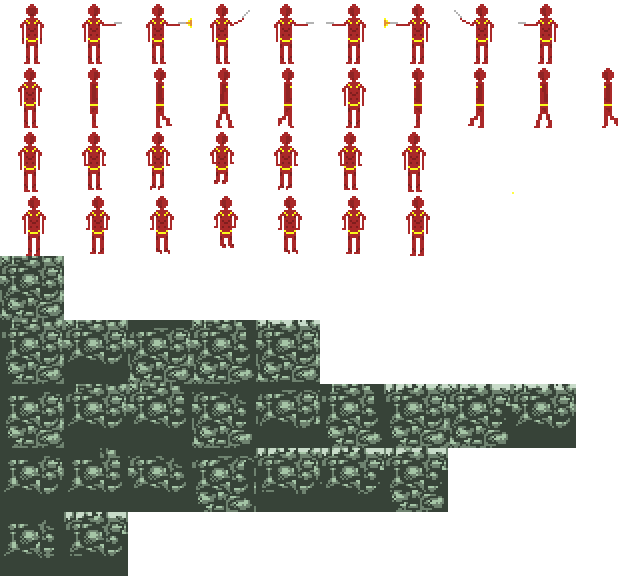
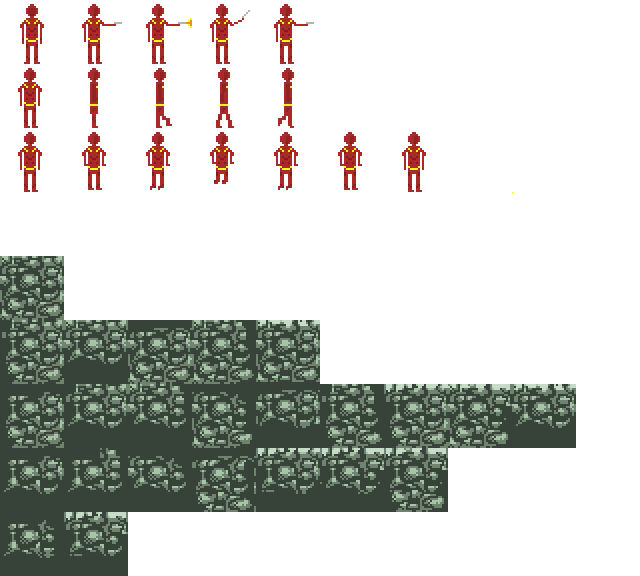
Reduced sprites on sheet with use of transforming. Collisions are now more proper and accurate.

diff --git a/Player.py b/Player.py
@@ -21,6 +21,8 @@ class Player(pygame.sprite.Sprite):
 		self.jumpClock = 0
 		self.direction = NONE
 
+		self.moved = False
+
 		self.image = self.imagesdict['j_rightface']
 		self.rect = self.image.get_rect()
 
@@ -45,46 +47,54 @@ class Player(pygame.sprite.Sprite):
 	def checkHorizontalAndShooting(self, environment):
 		moving = False
 		
-		if self.shooting and self.direction == LEFT:
-			if self.graphics['shoot_left'].isFinished():
-				self.shooting = False
-				self.bulletcreated = False
-				self.image = self.imagesdict['j_leftface']
-			else:
-				self.graphics['shoot_left'].play()
-				self.image = self.graphics['shoot_left'].getCurrentFrame()
-		        if self.graphics['shoot_left']._propGetCurrentFrameNum() == 1 and not self.bulletcreated:
-		            startx = self.rect[0]
-		            starty = self.rect[1] + 22
-		            bullet = Bullet(LEFT, self.imagesdict['bullet'])
-		            bullet.rect.topleft = startx, starty
-		            (self.groups())[0].add(bullet)
-		            self.bulletcreated = True
-		elif self.shooting and self.direction == RIGHT:
+		if self.shooting:
 			if self.graphics['shoot_right'].isFinished():
 				self.shooting = False
 				self.bulletcreated = False
 				self.image = self.imagesdict['j_rightface']
+				if self.direction == LEFT:
+					self.image = pygame.transform.flip(self.image, True, False)
+					oldpos, newpos = self.rect, self.rect.move(22,0)
+					moving = True
+					self.moved = False
 			else:
 				self.graphics['shoot_right'].play()
 				self.image = self.graphics['shoot_right'].getCurrentFrame()
+				if self.direction == LEFT:
+					self.image = pygame.transform.flip(self.image, True, False)
+					if not self.moved:
+						oldpos, newpos = self.rect, self.rect.move(-22,0)
+						moving = True
+						self.moved = True
+
+				# If first frame played already, need to create bullet
 		        if self.graphics['shoot_right']._propGetCurrentFrameNum() == 1 and not self.bulletcreated:
-		            startx = self.rect[0] + 64
-		            starty = self.rect[1] + 22
-		            bullet = Bullet(RIGHT, self.imagesdict['bullet'])
-		            bullet.rect.topleft = startx, starty
-		            (self.groups())[0].add(bullet)
-		            self.bulletcreated = True
-		elif self.direction == LEFT:
-			self.graphics['left_walk'].play()
-			self.image = self.graphics['left_walk'].getCurrentFrame()
-			oldpos, newpos = self.rect, self.rect.move((-kWalkSpeed,0))
-			moving = True
+		        	if self.direction == RIGHT:
+						startx = self.rect[0] + 64
+						starty = self.rect[1] + 19
+						bullet = Bullet(RIGHT, self.imagesdict['bullet'])
+						bullet.rect.topleft = startx, starty
+						(self.groups())[0].add(bullet)
+						self.bulletcreated = True
+			        else:
+						startx = self.rect[0]
+						starty = self.rect[1] + 19
+						bullet = Bullet(LEFT, self.imagesdict['bullet'])
+						bullet.rect.topleft = startx, starty
+						(self.groups())[0].add(bullet)
+						self.bulletcreated = True
+
 		elif self.direction == RIGHT:
 			self.graphics['right_walk'].play()
 			self.image = self.graphics['right_walk'].getCurrentFrame()
-			oldpos, newpos = self.rect, self.rect.move((kWalkSpeed,0))
+			oldpos, newpos = self.rect, self.rect.move(kWalkSpeed,0)
 			moving = True
+		elif self.direction == LEFT:
+			self.graphics['right_walk'].play()
+			self.image = pygame.transform.flip(self.graphics['right_walk'].getCurrentFrame(), True, False)
+			oldpos, newpos = self.rect, self.rect.move(-kWalkSpeed,0)
+			moving = True
+
 
 		# Check for horizontal collision
 		if moving:
@@ -110,12 +120,10 @@ class Player(pygame.sprite.Sprite):
 			# Change to jumping sprite if not shooting
 			if not self.shooting:
 				dirstr = ''
-				if self.facingRight:
-					dirstr = 'jump_right'
-				else:
-					dirstr = 'jump_left'
-				self.graphics[dirstr].play()
-				self.image = self.graphics[dirstr].getCurrentFrame()
+				self.graphics['jump_right'].play()
+				self.image = self.graphics['jump_right'].getCurrentFrame()
+				if not self.facingRight:
+					self.image = pygame.transform.flip(self.image, True, False)
 			# Set sprite to move
 			oldpos, newpos = self.rect, self.rect.move((0,-kJumpSpeed))
 			moving = True
@@ -127,20 +135,20 @@ class Player(pygame.sprite.Sprite):
 		elif self.falling:
 			# Change to facing sprite if not shooting
 			if not self.shooting:
-				if self.facingRight:
-					dirstr = 'j_rightface'
-				else:
-					dirstr = 'j_leftface'
-				img = self.imagesdict[dirstr]
+				img = self.imagesdict['j_rightface']
+				if not self.facingRight:
+					img = pygame.transform.flip(img, True, False)
+				
 			oldpos, newpos = self.rect, self.rect.move((0,kJumpSpeed))
 			moving = True
 
 			# Let sprite fall until bounds are met
-			if self.rect[1] + kJumpSpeed + 64 <= 400 and self.rect != newpos:
+			if self.rect[1] + kJumpSpeed + 60 <= 400 and self.rect != newpos:
 				self.rect = newpos
 			else:
 				self.falling = False
 				moving = False
+				self.graphics['jump_right'].stop()
 
 		# Check vertical collision
 		if moving:
@@ -186,11 +194,9 @@ class Player(pygame.sprite.Sprite):
 			self.bullet_sound.play()
 			self.shooting = True
 			# Set and start sprite animation
-			if self.facingRight:
-				self.graphics['shoot_right'].play()
-				self.image = self.graphics['shoot_right'].getCurrentFrame()
-				self.direction = RIGHT
-			else:
-				self.graphics['shoot_left'].play()
-				self.image = self.graphics['shoot_left'].getCurrentFrame()
+			self.graphics['shoot_right'].play()
+			self.image = self.graphics['shoot_right'].getCurrentFrame()
+			self.direction = RIGHT
+			if not self.facingRight:
+				self.image = pygame.transform.flip(self.image, True, False)
 				self.direction = LEFT

diff --git a/Game.py b/Game.py
@@ -17,13 +17,13 @@ DURATION = 0.1
 SCREEN_X=400
 SCREEN_Y=400
 
-# This is the length of the sprite
+# This is the length of the sprite box
 LEN_SPRT_X=64
 LEN_SPRT_Y=64
 
-# This is where the sprite is found on the sheet
-SPRT_RECT_X=0
-SPRT_RECT_Y=LEN_SPRT_Y
+# Dimension of the player sprite
+DIM_SPRT_X = 24
+DIM_SPRT_Y = 60
 
 
 def main():
@@ -136,28 +136,26 @@ def DetermineAssets():
 def LoadSpriteAssets(SHEET):
     # Global dictionary that contains all static images
     IMAGESDICT = {
-        'j_normal': SHEET.subsurface(pygame.Rect(0, 0, LEN_SPRT_X, LEN_SPRT_Y)),
-        'j_rightface': SHEET.subsurface(pygame.Rect(SPRT_RECT_X, SPRT_RECT_Y, LEN_SPRT_X, LEN_SPRT_Y)),
-        'j_leftface': SHEET.subsurface(pygame.Rect(SPRT_RECT_X+(LEN_SPRT_X*5), SPRT_RECT_Y, LEN_SPRT_X, LEN_SPRT_Y)),
-        'bullet': SHEET.subsurface(pygame.Rect(SPRT_RECT_X+(LEN_SPRT_X*8), SPRT_RECT_Y*3, 2, 2)),
-        'ground': SHEET.subsurface(pygame.Rect(LEN_SPRT_X*4, SPRT_RECT_Y*5, LEN_SPRT_X, LEN_SPRT_Y/2)),
+        'j_normal': SHEET.subsurface(pygame.Rect(22, 2, 24, 60)),
+        'j_rightface': SHEET.subsurface(pygame.Rect(18, LEN_SPRT_Y + 4, DIM_SPRT_X, DIM_SPRT_Y)),
+        'bullet': SHEET.subsurface(pygame.Rect(LEN_SPRT_X*8, LEN_SPRT_Y*3, 2, 2)),
+        'ground': SHEET.subsurface(pygame.Rect(LEN_SPRT_X*4, LEN_SPRT_Y*5, LEN_SPRT_X, LEN_SPRT_Y/2)),
     }
 
+    IMAGESDICT['j_leftface'] = pygame.transform.flip(IMAGESDICT['j_rightface'], True, False)
+
     # Define the different animation types
-    animTypes = 'right_walk left_walk shoot_right shoot_left jump_right jump_left right_face left_face normal'.split()
+    animTypes = 'right_walk shoot_right jump_right'.split()
 
     # These tuples contain (base_x, base_y, numOfFrames)
     # numOfFrames is in the x-direction
     animTypesInfo = {
-        'right_walk':   (SPRT_RECT_X+LEN_SPRT_X, SPRT_RECT_Y, 4),
-        'left_walk':    (SPRT_RECT_X+(LEN_SPRT_X*6), SPRT_RECT_Y, 4),
-        'shoot_right':  (LEN_SPRT_X, 0, 4),
-        'shoot_left':   (LEN_SPRT_X*5, 0, 4),
-        'jump_right':   (0, LEN_SPRT_Y*2, 7),
-        'jump_left':    (0, LEN_SPRT_Y*3, 7),
-        'normal':       (0, 0, 1),
-        'right_face':   (0, LEN_SPRT_Y, 1),
-        'left_face':    (0, LEN_SPRT_Y*3, 1)
+        'right_walk':   (LEN_SPRT_X + 24, LEN_SPRT_Y + 4, 4),
+        'shoot_right':  (LEN_SPRT_X + 18, 4, 4),
+        'jump_right':   (0 + 18, (LEN_SPRT_Y*2) + 4, 7),
+        #'normal':       (0, 0, 1),
+        #'right_face':   (0, LEN_SPRT_Y, 1),
+        #'left_face':    (0, LEN_SPRT_Y*3, 1)
     }
 
     animObjs = {}
@@ -165,10 +163,15 @@ def LoadSpriteAssets(SHEET):
         xbase = (animTypesInfo[animType])[0]
         ybase = (animTypesInfo[animType])[1]
         numFrames = (animTypesInfo[animType])[2]
-        imagesAndDurations = [(SHEET.subsurface(pygame.Rect(xbase+(LEN_SPRT_X*num), ybase, LEN_SPRT_X, LEN_SPRT_Y)), DURATION) for num in range(numFrames)]
         loopforever = True
-        if(animType == 'shoot_right' or animType == 'shoot_left'):
+
+        if(animType == 'right_walk'):
+            imagesAndDurations = [(SHEET.subsurface(pygame.Rect(xbase+(LEN_SPRT_X*num), ybase, 18, DIM_SPRT_Y)), DURATION) for num in range(numFrames)]
+        elif(animType == 'shoot_right'):
             loopforever = False
+            imagesAndDurations = [(SHEET.subsurface(pygame.Rect(xbase+(LEN_SPRT_X*num), ybase, 46, LEN_SPRT_Y)), DURATION) for num in range(numFrames)]
+        elif(animType == 'jump_right'):
+            imagesAndDurations = [(SHEET.subsurface(pygame.Rect(xbase+(LEN_SPRT_X*num), ybase, 24, LEN_SPRT_Y)), DURATION) for num in range(numFrames)]
 
         animObjs[animType] = pyganim.PygAnimation(imagesAndDurations, loop=loopforever)
 
